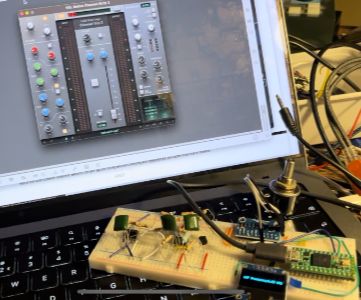
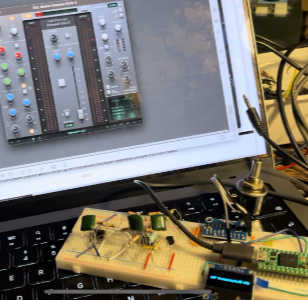
images encoder

diff --git a/README.md b/README.md
@@ -4,7 +4,7 @@ This repository contain the files to be able to create a Max4live 4 controller w
 
 This setup can easily be extended to a 4 units by using jumper cables on the same pcb together with the headers on the boards to maximize a 5 panel order from jlcpcb.
 
-![Image](Images/m4live_controller.png)  ![Image](Images/potentiometer_experiment.png) ![Image](Images/wip_3_parameters.png)
+![Image](Images/m4live_controller.png)![Image](Images/potentiometer_experiment.png)![Image](Images/wip_3_parameters.png)![Image](Images/magnetic_encoder_hack.png)
 
 ### History ###
 
